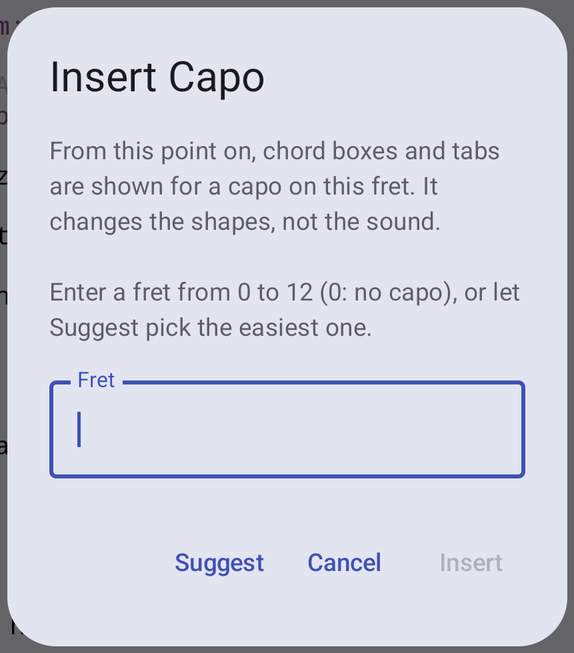
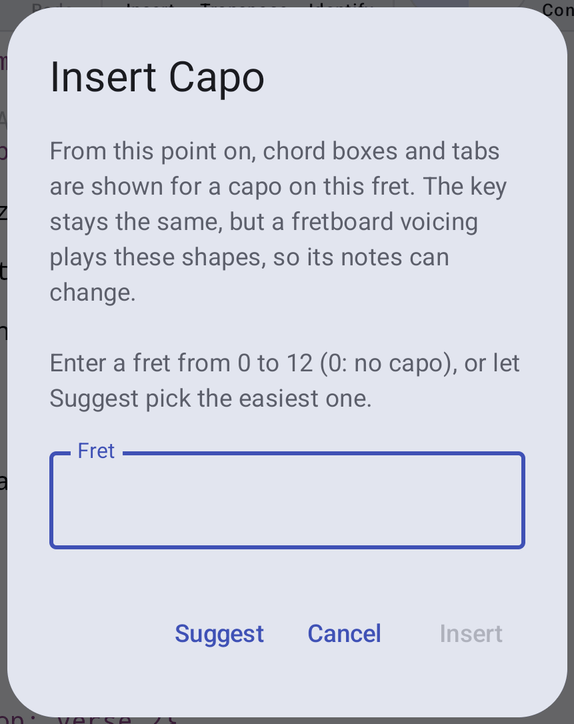
Help: directive hints on desktop and Android, retake insert-capo
interface.rst gets a Directive Hints section (status bar and tooltip on
desktop; hint strip and long-press on Android, with two new shots) and
directives.rst points to it. The screenshot tool's swipe takes an "at"
point, which makes a long-press step. insert-capo is retaken for the new
dialog text.

diff --git a/android/tools/help_screenshots.py b/android/tools/help_screenshots.py
@@ -410,7 +410,9 @@ def run_steps(dev: Device, steps: list[dict], shot: str) -> None:
             dev.sh(f"input keyevent {step['key']}")
         elif "swipe" in step:
             node, _ = find_or_fail(dev, step["swipe"])
-            x, y = node.center
+            fx, fy = step["swipe"].get("at", (0.5, 0.5))
+            x0, y0, x1, y1 = node.bounds
+            x, y = x0 + (x1 - x0) * fx, y0 + (y1 - y0) * fy
             dx, dy = step.get("by", (0, 0))
             dev.sh(f"input swipe {x:.0f} {y:.0f} {x + dx:.0f} {y + dy:.0f} {step.get('ms', 400)}")
         elif "actions" in step:

diff --git a/android/tools/HELP_SHOTS.md b/android/tools/HELP_SHOTS.md
@@ -67,7 +67,7 @@ actions after it. Then the `steps` run from outside, through adb:
 | `{"wait_for": {...}}` | waits for a node |
 | `{"type": "C  Am  F  G"}` | types with the soft keyboard |
 | `{"key": "BACK"}` | a key event |
-| `{"swipe": {...}, "by": [0, -600]}` | drags from a node's centre |
+| `{"swipe": {...}, "by": [0, -600]}` | drags from a node's centre (or its `"at": [fx, fy]`); `"by": [0, 0]` with `"ms": 900` is a long-press |
 | `{"actions": [...]}` | more in-app actions, through a broadcast |
 | `{"sleep": 2}` | waits (every step is followed by 0.8 s unless it sets `sleep`) |
 
@@ -126,8 +126,8 @@ legend. Pages are named `file: section`.
 | `voicing-sheet.png` | Voicing sheet: Piano, Fretted (four guitars, Ukulele), Ensembles (four presets) and Your voicings (My 7-String), with Edit voicings… and Done. (phone) | playback: Voicing Options; fretted, piano, ensembles: How to Change Voicing; settings: Voicings |
 | `instrument-families.png` | Instrument sheet, first level: the 16 General MIDI families, the current one marked with its instrument on the right. (phone) | getting_started: Changing the Sound; playback: Changing Instruments |
 | `instrument-programs.png` | Instrument sheet, second level: the Guitar family's eight instruments with program numbers, Steel Guitar selected, ← back. (phone) | getting_started: Changing the Sound; playback: How to Change Instruments |
-| `speed-sheet.png` | Speed sheet at 125%: the value, the 25–400% slider, Reset, Manual… and Done. (phone) | getting_started: Adjusting the Tempo; interface: The Player |
-| `speed-manual.png` | The Manual… speed dialog: a number field (25 to 400) with Cancel / OK. (phone) | getting_started: Adjusting the Tempo |
+| `speed-sheet.png` | Speed sheet at 125%: the value, the 12.5–400% slider, Reset, Manual… and Done. (phone) | getting_started: Adjusting the Tempo; interface: The Player |
+| `speed-manual.png` | The Manual… speed dialog: a number field (12.5 to 400) with Cancel / OK. (phone) | getting_started: Adjusting the Tempo |
 | `insert-sheet.png` | ＋ Insert sheet: Tempo, Time signature, Key, Capo, Label (section), Loop, each with its directive. (phone) | interface: Insert Directive Dialogs |
 | `insert-tempo.png` | Insert BPM/Tempo Change dialog: the accepted formats and the BPM field. (phone) | interface: Insert Directive Dialogs |
 | `insert-time.png` | Insert Time Signature Change dialog: Beats / Unit pickers. (phone) | interface: Insert Directive Dialogs |
@@ -148,6 +148,8 @@ legend. Pages are named `file: section`.
 | `landscape-edit.png` | Phone in landscape, Edit tab: the tabs and the Edit ribbon share one line, the title is hidden. (phone, landscape) | interface: The App Bar (phone held sideways) |
 | `edit-keyboard.png` | A new song in the Edit tab with the keyboard open, after typing C Am F G (each chord blue). (phone) | getting_started: Your First Chord Sheet |
 | `edit-keyboard-collapsed.png` | Phone in landscape typing in Edit: the keyboard leaves little room, so the app bar and ribbon hide and the floating Undo / Redo chip sits above the keyboard. (phone, landscape) | interface: The Edit Ribbon |
+| `directive-hint.png` | Edit tab with the keyboard open, the cursor inside a red {bpm: 500}: the hint strip above the keyboard says 'Tempo must be 20-400' in red, then the {bpm} forms in monospace. (phone) | interface: Directive Hints |
+| `directive-explain.png` | Play tab after touching and holding the red {bpm: 500}: a small card under it with the reason and the {bpm} forms. (phone) | interface: Directive Hints |
 | `tablet-play.png` | Tablet in landscape, Play tab while playing: text on the left, chord sheet and player on the right. (tablet, landscape) | chord_sheet: Showing and Resizing the Strip; interface: Edit and Play |
 | `settings-pages.png` | ☰ → Settings on a phone: the list of pages (General, Playback, Voicings). (phone) | settings: Settings |
 | `settings-general.png` | Settings › General: font family and size, chord notation, default key, show quick start at startup, number of recent files. (phone) | settings: General |

diff --git a/help/interface.rst b/help/interface.rst
@@ -887,6 +887,63 @@ directive of the same kind replaces before any chord plays, such as the first
 of ``{capo: 2}`` and ``{capo: 3}`` written one after the other. It does no harm;
 you can delete it.
 
+.. _directive-hints:
+
+Directive Hints
+---------------
+
+You don't have to remember how a directive is written: the app shows its
+syntax while you write one, and a red or faded directive tells you what's
+wrong with it.
+
+.. only:: desktop
+
+   While the text cursor is inside a directive, the status bar at the bottom
+   of the window shows how that directive is written, for example
+   ``{bpm: 120} · {bpm: +10} · {bpm: 50%} · {bpm: 2x} · {bpm: reset}``. It
+   works for one you're still typing too: after ``{lo`` it shows the ``{loop}``
+   forms, and after a lone ``{`` it lists every directive. If the directive is
+   red or faded, the reason comes first, for example "Tempo must be 20-400 —
+   {bpm: 120} · …". When the cursor leaves the directive, the status bar shows
+   what it showed before. While a song plays, the status bar keeps showing
+   playback.
+
+   Rest the mouse pointer on a red or faded directive for a moment, and a
+   tooltip shows the reason and the correct syntax.
+
+.. only:: android
+
+   In the Edit tab, while the cursor is inside a directive, a slim strip
+   under the text shows how that directive is written, for example
+   ``{bpm: 120} · {bpm: +10} · {bpm: 50%} · {bpm: 2x} · {bpm: reset}``. With
+   the keyboard open, the strip sits just above it. It works for one you're
+   still typing too: after ``{lo`` it shows the ``{loop}`` forms, and after a
+   lone ``{`` it lists every directive. If the directive is red, the reason
+   comes first, in red ("Tempo must be 20-400"); for a faded one it says what
+   replaces it. The strip goes away when the cursor leaves the directive. When
+   the header is folded away for the keyboard, the undo / redo button sits
+   above the strip.
+
+   .. platform-figure:: directive-hint
+      :platforms: android
+      :alt: The Edit tab with the keyboard open. The cursor is inside a red
+            {bpm: 500}, and a strip just above the keyboard says "Tempo must
+            be 20-400" in red, then the {bpm} forms in a monospace font.
+
+      The hint strip for an invalid tempo.
+
+   In the Play tab the text can't be edited, so there's no cursor: touch and
+   hold a red or faded directive instead. A small card under it shows the
+   reason and the correct syntax. It goes away after a few seconds, or when
+   you touch the screen again. Holding a directive doesn't move the playhead.
+
+   .. platform-figure:: directive-explain
+      :platforms: android
+      :alt: The Play tab after touching and holding a red {bpm: 500}: a card
+            under it says "Tempo must be 20-400" in red, then the {bpm} forms.
+
+      Holding an invalid directive in the Play tab.
+
 Currently Playing (Yellow Highlight)
 ------------------------------------
 

diff --git a/todo.md b/todo.md
@@ -15,7 +15,7 @@ App bugs and questions found while fact-checking the user guide (2026-10-30). No
 - **"la la la" lyric lines detected as chords:** a known issue, too ambiguous for a heuristic (chord lines can have directions and "?" too). Workaround: a line starting with `.` is plain text (done).
 - **`iim7` and Berklee-style `IIm7`:** accept both as minor (done).
 - **Voicing `label`:** keep it internal and never show it. The name is the display name. No change.
-- **Syntax tooltip, design approved.** Desktop: the hint in the status bar while the cursor is in a directive, and a hover tooltip on a red directive. Android Edit mode: a hint strip above the keyboard, and long-press a red directive for the reason. Core done (f13a3c0, b69234c); UI in progress.
+- **Syntax tooltip, design approved.** Desktop: the hint in the status bar while the cursor is in a directive, and a hover tooltip on a red directive. Android Edit mode: a hint strip above the keyboard, and long-press a red directive for the reason. Core done (f13a3c0, b69234c); UI built 2026-10-30 (Play's long-press shows a small card by the directive; see docs/design/android-ui-spec.md, Implementation notes).
 
 ## Bugs (from fact-check A): all fixed 2026-10-30 except where noted
 1. **Chord Identifier and flats:** "Bb D F" gives `D`, "Eb G Bb" gives `G`, `G/D#`, "Db F Ab" gives `F`, `F/C#`. The notes are rewritten as sharps before identification.

diff --git a/help/directives.rst b/help/directives.rst
@@ -13,7 +13,7 @@ the wrong format (``{time: 7}``) or a value out of range (``{capo: 30}``). The
 sections below give each directive's format and limits.
 A directive in **faded purple** has no effect: another one of the same kind
 (``{bpm}`` with a number, ``{time}``, ``{key}`` or ``{capo}``) replaces it before
-any chord plays.
+any chord plays. :plat:`Put the cursor inside a directive to see its syntax in the status bar, or rest the pointer on a red or faded one to see why|Put the cursor inside a directive in the Edit tab to see its syntax, or hold a red or faded one in the Play tab to see why` (see :ref:`directive-hints`).
 
 .. only:: android
 
